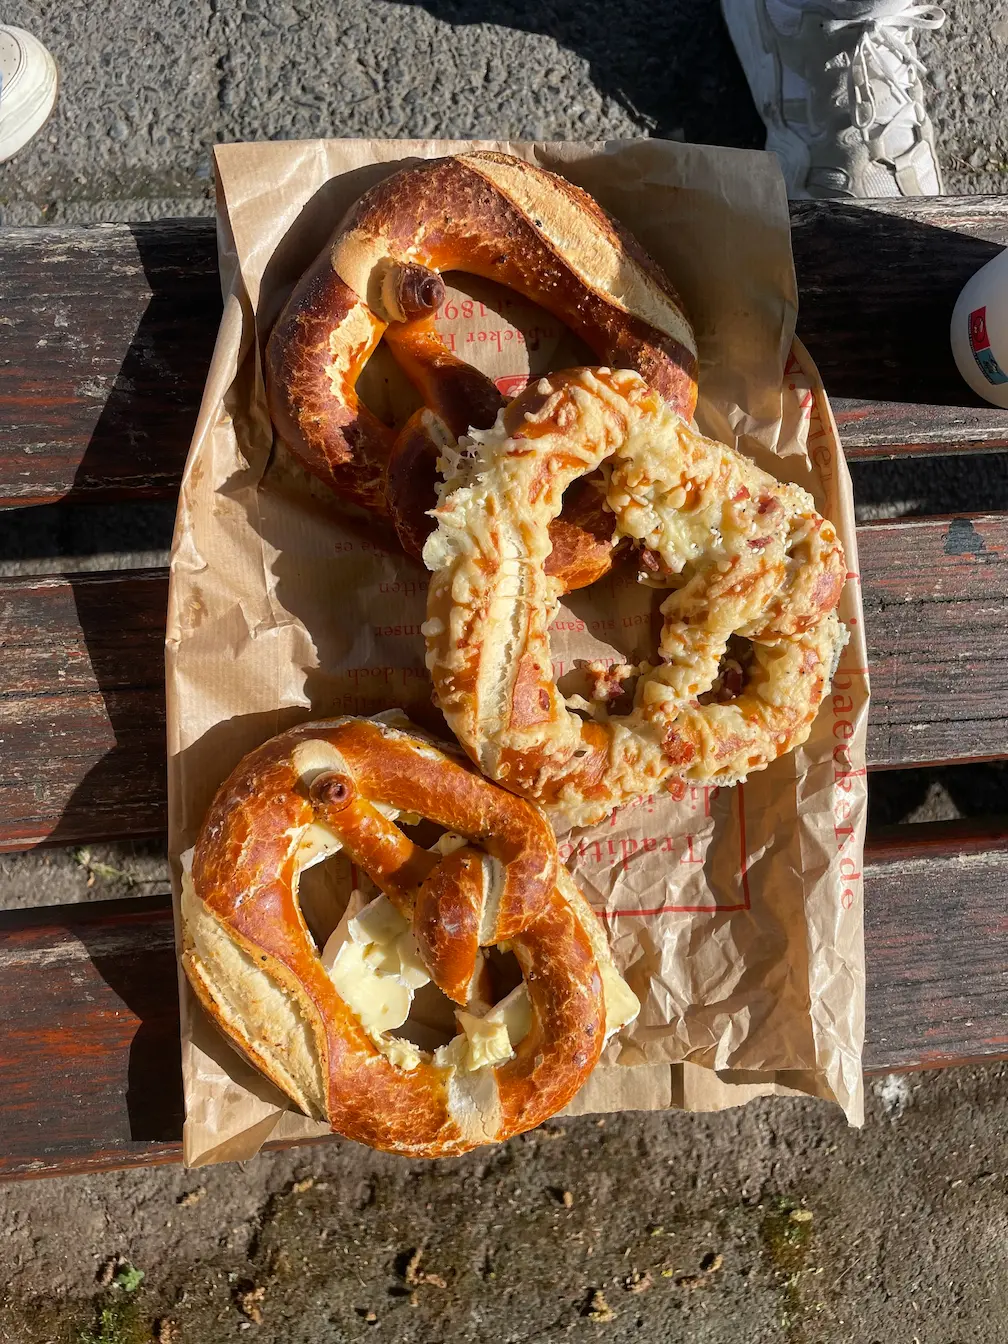
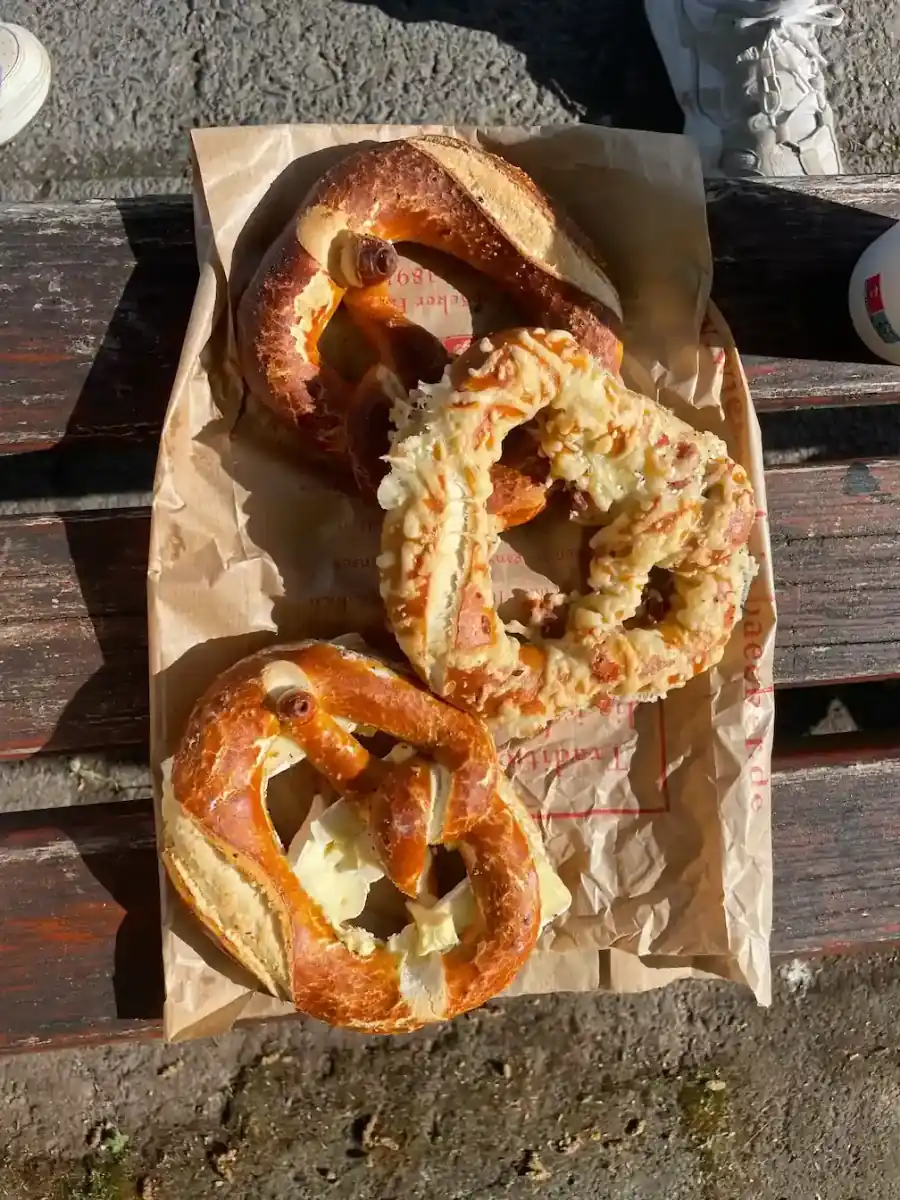
feat(sync): add sync:content and sync:blogs preserving releases, update Next.js config and blog WebP images

diff --git a/scripts/sync-blogs.ts b/scripts/sync-blogs.ts
@@ -1,0 +1,163 @@
+import fs from 'fs';
+import path from 'path';
+import https from 'https';
+import { execSync } from 'child_process';
+
+interface SyncConfig {
+    org: string;
+    repo: string;
+    branch: string;
+    localOverridePath?: string;
+}
+
+const CONFIG: SyncConfig = {
+    org: process.env.CONTENT_ORG || process.env.EVENTS_ORG || 'jorbites',
+    repo: process.env.CONTENT_REPO || process.env.EVENTS_REPO || 'content',
+    branch: process.env.CONTENT_BRANCH || process.env.EVENTS_BRANCH || 'main',
+    localOverridePath: process.env.CONTENT_LOCAL_PATH || process.env.EVENTS_LOCAL_PATH,
+};
+
+const APP_BLOGS_DIR = path.resolve(process.cwd(), 'app/content/blogs');
+const APP_BLOG_IMAGES_DIR = path.resolve(process.cwd(), 'public/images/blogs');
+
+/**
+ * Mirror blog markdown files across locales, strictly preserving the 'releases' directory
+ */
+function mirrorBlogContentDirectory(src: string, dest: string) {
+    if (!fs.existsSync(src)) return;
+    fs.mkdirSync(dest, { recursive: true });
+
+    for (const locale of ['ca', 'en', 'es']) {
+        const srcLocaleDir = path.join(src, locale);
+        const destLocaleDir = path.join(dest, locale);
+
+        if (!fs.existsSync(srcLocaleDir)) continue;
+        fs.mkdirSync(destLocaleDir, { recursive: true });
+
+        const srcFilesList = fs
+            .readdirSync(srcLocaleDir)
+            .filter((f) => f.endsWith('.md') && f !== 'README.md');
+        const srcFilesSet = new Set(srcFilesList);
+
+        // Delete general blogs in dest that are no longer in src, WITHOUT touching 'releases/'
+        if (fs.existsSync(destLocaleDir)) {
+            for (const destChild of fs.readdirSync(destLocaleDir)) {
+                // NEVER touch or delete releases directory or README.md
+                if (destChild === 'releases' || destChild === 'README.md' || destChild === '.DS_Store') {
+                    continue;
+                }
+                if (!srcFilesSet.has(destChild)) {
+                    const target = path.join(destLocaleDir, destChild);
+                    fs.rmSync(target, { recursive: true, force: true });
+                    console.log(`   🗑 Cleaned up deleted blog: ${locale}/${destChild}`);
+                }
+            }
+        }
+
+        // Copy new or updated blogs from src to dest
+        for (const file of srcFilesList) {
+            const srcFile = path.join(srcLocaleDir, file);
+            const destFile = path.join(destLocaleDir, file);
+            fs.copyFileSync(srcFile, destFile);
+        }
+    }
+}
+
+/**
+ * Mirror blog images in public/images/blogs, strictly preserving the 'releases' directory
+ */
+function mirrorBlogImagesDirectory(src: string, dest: string) {
+    if (!fs.existsSync(src)) return;
+    fs.mkdirSync(dest, { recursive: true });
+
+    const srcFilesList = fs
+        .readdirSync(src)
+        .filter((f) => !f.startsWith('.') && f !== 'releases');
+    const srcFilesSet = new Set(srcFilesList);
+
+    // Delete images in dest that no longer exist in src, WITHOUT touching 'releases/'
+    if (fs.existsSync(dest)) {
+        for (const destChild of fs.readdirSync(dest)) {
+            // NEVER touch or delete releases folder
+            if (destChild === 'releases' || destChild === '.DS_Store') {
+                continue;
+            }
+            if (!srcFilesSet.has(destChild)) {
+                const target = path.join(dest, destChild);
+                fs.rmSync(target, { recursive: true, force: true });
+                console.log(`   🗑 Cleaned up deleted blog image: ${destChild}`);
+            }
+        }
+    }
+
+    // Copy blog images
+    for (const child of srcFilesList) {
+        const srcChild = path.join(src, child);
+        const destChild = path.join(dest, child);
+        const stats = fs.statSync(srcChild);
+
+        if (!stats.isDirectory()) {
+            fs.copyFileSync(srcChild, destChild);
+        }
+    }
+}
+
+function findLocalContentDir(): string | null {
+    const candidates = [
+        CONFIG.localOverridePath,
+        path.resolve(process.cwd(), '../content'),
+        path.resolve(process.cwd(), '../events'),
+        path.resolve(process.cwd(), 'content-repo'),
+        path.resolve(process.cwd(), 'events-repo'),
+    ].filter(Boolean) as string[];
+
+    for (const dir of candidates) {
+        if (
+            fs.existsSync(dir) &&
+            (fs.existsSync(path.join(dir, 'content/blogs')) || fs.existsSync(path.join(dir, 'content')))
+        ) {
+            return dir;
+        }
+    }
+    return null;
+}
+
+export async function syncBlogs() {
+    console.log('🔄 [sync-blogs] Checking blogs source...');
+
+    // 1. Check local source
+    const localDir = findLocalContentDir();
+    if (localDir) {
+        console.log(`📂 [sync-blogs] Found local content source at: ${localDir}`);
+
+        const blogsContentSrc = fs.existsSync(path.join(localDir, 'content/blogs'))
+            ? path.join(localDir, 'content/blogs')
+            : null;
+
+        const blogsImagesSrc = fs.existsSync(path.join(localDir, 'images/blogs'))
+            ? path.join(localDir, 'images/blogs')
+            : null;
+
+        if (blogsContentSrc) {
+            console.log('📝 Mirroring blog posts (preserving releases/)...');
+            mirrorBlogContentDirectory(blogsContentSrc, APP_BLOGS_DIR);
+        }
+
+        if (blogsImagesSrc) {
+            console.log('🖼  Mirroring blog images (preserving releases/)...');
+            mirrorBlogImagesDirectory(blogsImagesSrc, APP_BLOG_IMAGES_DIR);
+        }
+
+        console.log('✅ [sync-blogs] Local blog sync completed successfully!\n');
+        return;
+    }
+
+    console.log('ℹ [sync-blogs] No external blogs source found. Local blogs preserved.\n');
+}
+
+if (require.main === module) {
+    syncBlogs().catch((err) => {
+        console.error(err);
+        process.exit(1);
+    });
+}

diff --git a/scripts/sync-events.ts b/scripts/sync-events.ts
@@ -11,10 +11,10 @@ interface SyncConfig {
 }
 
 const CONFIG: SyncConfig = {
-    org: process.env.EVENTS_ORG || 'jorbites',
-    repo: process.env.EVENTS_REPO || 'events',
-    branch: process.env.EVENTS_BRANCH || 'main',
-    localOverridePath: process.env.EVENTS_LOCAL_PATH,
+    org: process.env.CONTENT_ORG || process.env.EVENTS_ORG || 'jorbites',
+    repo: process.env.CONTENT_REPO || process.env.EVENTS_REPO || 'content',
+    branch: process.env.CONTENT_BRANCH || process.env.EVENTS_BRANCH || 'main',
+    localOverridePath: process.env.CONTENT_LOCAL_PATH || process.env.EVENTS_LOCAL_PATH,
 };
 
 const APP_CONTENT_DIR = path.resolve(process.cwd(), 'app/content/events');
@@ -85,17 +85,20 @@ function mergeDirectory(src: string, dest: string) {
 function findLocalEventsDir(): string | null {
     const candidates = [
         CONFIG.localOverridePath,
+        path.resolve(process.cwd(), '../content'),
         path.resolve(process.cwd(), '../events'),
+        path.resolve(process.cwd(), '../jorbites-content'),
         path.resolve(process.cwd(), '../jorbites-events'),
+        path.resolve(process.cwd(), 'content-repo'),
         path.resolve(process.cwd(), 'events-repo'),
+        path.resolve(process.cwd(), 'content'),
         path.resolve(process.cwd(), 'events'),
     ].filter(Boolean) as string[];
 
     for (const dir of candidates) {
         if (
             fs.existsSync(dir) &&
-            fs.existsSync(path.join(dir, 'content')) &&
-            fs.existsSync(path.join(dir, 'images'))
+            (fs.existsSync(path.join(dir, 'content/events')) || fs.existsSync(path.join(dir, 'content')))
         ) {
             return dir;
         }
@@ -176,10 +179,18 @@ export async function syncEvents() {
     const localDir = findLocalEventsDir();
     if (localDir) {
         console.log(`📂 [sync-events] Found local events source at: ${localDir}`);
-        console.log('📦 Mirroring content...');
-        mirrorDirectory(path.join(localDir, 'content'), APP_CONTENT_DIR);
-        console.log('🖼  Mirroring images...');
-        mirrorDirectory(path.join(localDir, 'images'), APP_IMAGES_DIR);
+        const contentSrc = fs.existsSync(path.join(localDir, 'content/events'))
+            ? path.join(localDir, 'content/events')
+            : path.join(localDir, 'content');
+
+        const imagesSrc = fs.existsSync(path.join(localDir, 'images/events'))
+            ? path.join(localDir, 'images/events')
+            : path.join(localDir, 'images');
+
+        console.log(`📦 Mirroring events content from ${contentSrc}...`);
+        mirrorDirectory(contentSrc, APP_CONTENT_DIR);
+        console.log(`🖼  Mirroring events images from ${imagesSrc}...`);
+        mirrorDirectory(imagesSrc, APP_IMAGES_DIR);
 
         const localBadges = path.join(localDir, 'badges');
         if (fs.existsSync(localBadges)) {
@@ -205,11 +216,19 @@ export async function syncEvents() {
         }
         await downloadRemoteTarball(tarballUrl, tempDir);
 
-        if (fs.existsSync(path.join(tempDir, 'content'))) {
-            mirrorDirectory(path.join(tempDir, 'content'), APP_CONTENT_DIR);
+        const remoteContentSrc = fs.existsSync(path.join(tempDir, 'content/events'))
+            ? path.join(tempDir, 'content/events')
+            : path.join(tempDir, 'content');
+
+        const remoteImagesSrc = fs.existsSync(path.join(tempDir, 'images/events'))
+            ? path.join(tempDir, 'images/events')
+            : path.join(tempDir, 'images');
+
+        if (fs.existsSync(remoteContentSrc)) {
+            mirrorDirectory(remoteContentSrc, APP_CONTENT_DIR);
         }
-        if (fs.existsSync(path.join(tempDir, 'images'))) {
-            mirrorDirectory(path.join(tempDir, 'images'), APP_IMAGES_DIR);
+        if (fs.existsSync(remoteImagesSrc)) {
+            mirrorDirectory(remoteImagesSrc, APP_IMAGES_DIR);
         }
         if (fs.existsSync(path.join(tempDir, 'badges'))) {
             mergeDirectory(path.join(tempDir, 'badges'), APP_BADGES_DIR);

diff --git a/next.config.js b/next.config.js
@@ -2,17 +2,17 @@ const { execSync } = require('child_process');
 const fs = require('fs');
 const path = require('path');
 
-// Ensure events content & badges are synced before Next.js builds
+// Ensure events & blogs content are synced before Next.js builds
 try {
     const eventsDir = path.join(process.cwd(), 'app/content/events');
     const challengesFile = path.join(eventsDir, 'weekly-challenges.json');
-    if (!process.env._EVENTS_SYNCED && (!fs.existsSync(challengesFile) || process.env.VERCEL)) {
-        process.env._EVENTS_SYNCED = 'true';
-        console.log('🔄 [next.config.js] Syncing events content & badges...');
-        execSync('npx tsx scripts/sync-events.ts', { stdio: 'inherit' });
+    if (!process.env._CONTENT_SYNCED && (!fs.existsSync(challengesFile) || process.env.VERCEL)) {
+        process.env._CONTENT_SYNCED = 'true';
+        console.log('🔄 [next.config.js] Syncing content (events & blogs)...');
+        execSync('npx tsx scripts/sync-content.ts', { stdio: 'inherit' });
     }
 } catch (err) {
-    console.error('❌ [next.config.js] Failed to run sync-events:', err.message);
+    console.error('❌ [next.config.js] Failed to run sync-content:', err.message);
     throw err;
 }
 

diff --git a/scripts/sync-content.ts b/scripts/sync-content.ts
@@ -1,0 +1,21 @@
+import { syncEvents } from './sync-events';
+import { syncBlogs } from './sync-blogs';
+
+export async function syncContent() {
+    console.log('🚀 [sync-content] Starting full content synchronization (Events & Blogs)...\n');
+
+    // 1. Sync Events, images, and badges
+    await syncEvents();
+
+    // 2. Sync Blogs and blog images (preserving releases/)
+    await syncBlogs();
+
+    console.log('🎉 [sync-content] All content synchronization completed successfully!\n');
+}
+
+if (require.main === module) {
+    syncContent().catch((err) => {
+        console.error('❌ [sync-content] Sync failed:', err);
+        process.exit(1);
+    });
+}

diff --git a/app/content/blogs/ca/food_and_mood.md b/app/content/blogs/ca/food_and_mood.md
@@ -5,7 +5,7 @@ date: 2026-06-07T10:00:00.000Z
 description: El que mengem està implicat en molts processos del nostre cos, i cervell, i crec que és important saber que tot i que quan nosaltres pensem en una bona recepta, el primer que ens ve al cap és el gust que aquesta podrà tenir.
 ---
 
-![Food and mood](/images/blogs/food_and_mood.png)
+![Food and mood](/images/blogs/food_and_mood.webp)
 
 El que mengem està implicat en molts processos del nostre cos, i cervell, i crec que és important saber que tot i que quan nosaltres pensem en una bona recepta, el primer que ens ve al cap és el gust que aquesta podrà tenir, l’olor, la textura i la pinta. Però on realment influeix el menjar és també en el nostre cervell, tot i que clar, que tots sabem que no sempre tot ens ve de gust o ens agrada, i es fa més complicat menjar.
 

diff --git a/app/content/blogs/es/food_and_mood.md b/app/content/blogs/es/food_and_mood.md
@@ -5,7 +5,7 @@ date: 2026-06-07T10:00:00.000Z
 description: Lo que comemos está implicado en muchos procesos de nuestro cuerpo y cerebro. Descubre la relación entre tu alimentación y tu estado de ánimo.
 ---
 
-![Food and mood](/images/blogs/food_and_mood.png)
+![Food and mood](/images/blogs/food_and_mood.webp)
 
 Lo que comemos está implicado en muchos procesos de nuestro cuerpo y cerebro, y creo que es importante saber que, aunque cuando pensamos en una buena receta lo primero que nos viene a la cabeza es el sabor que esta podrá tener, el olor, la textura y el aspecto, donde realmente influye la comida es también en nuestro cerebro. Aunque claro, todos sabemos que no siempre todo nos apetece o nos gusta, y se hace más complicado comer.
 

diff --git a/app/content/blogs/en/food_and_mood.md b/app/content/blogs/en/food_and_mood.md
@@ -5,7 +5,7 @@ date: 2026-06-07T10:00:00.000Z
 description: What we eat is involved in many processes in our body and brain. Discover the relationship between your diet and your mood.
 ---
 
-![Food and mood](/images/blogs/food_and_mood.png)
+![Food and mood](/images/blogs/food_and_mood.webp)
 
 What we eat is involved in many processes in our body and brain, and I think it is important to know that, although when we think of a good recipe the first things that come to mind are its taste, smell, texture, and appearance, where food really has an impact is also in our brain. Although, of course, we all know that we don't always feel like eating everything or like everything, and eating can become more complicated.
 
